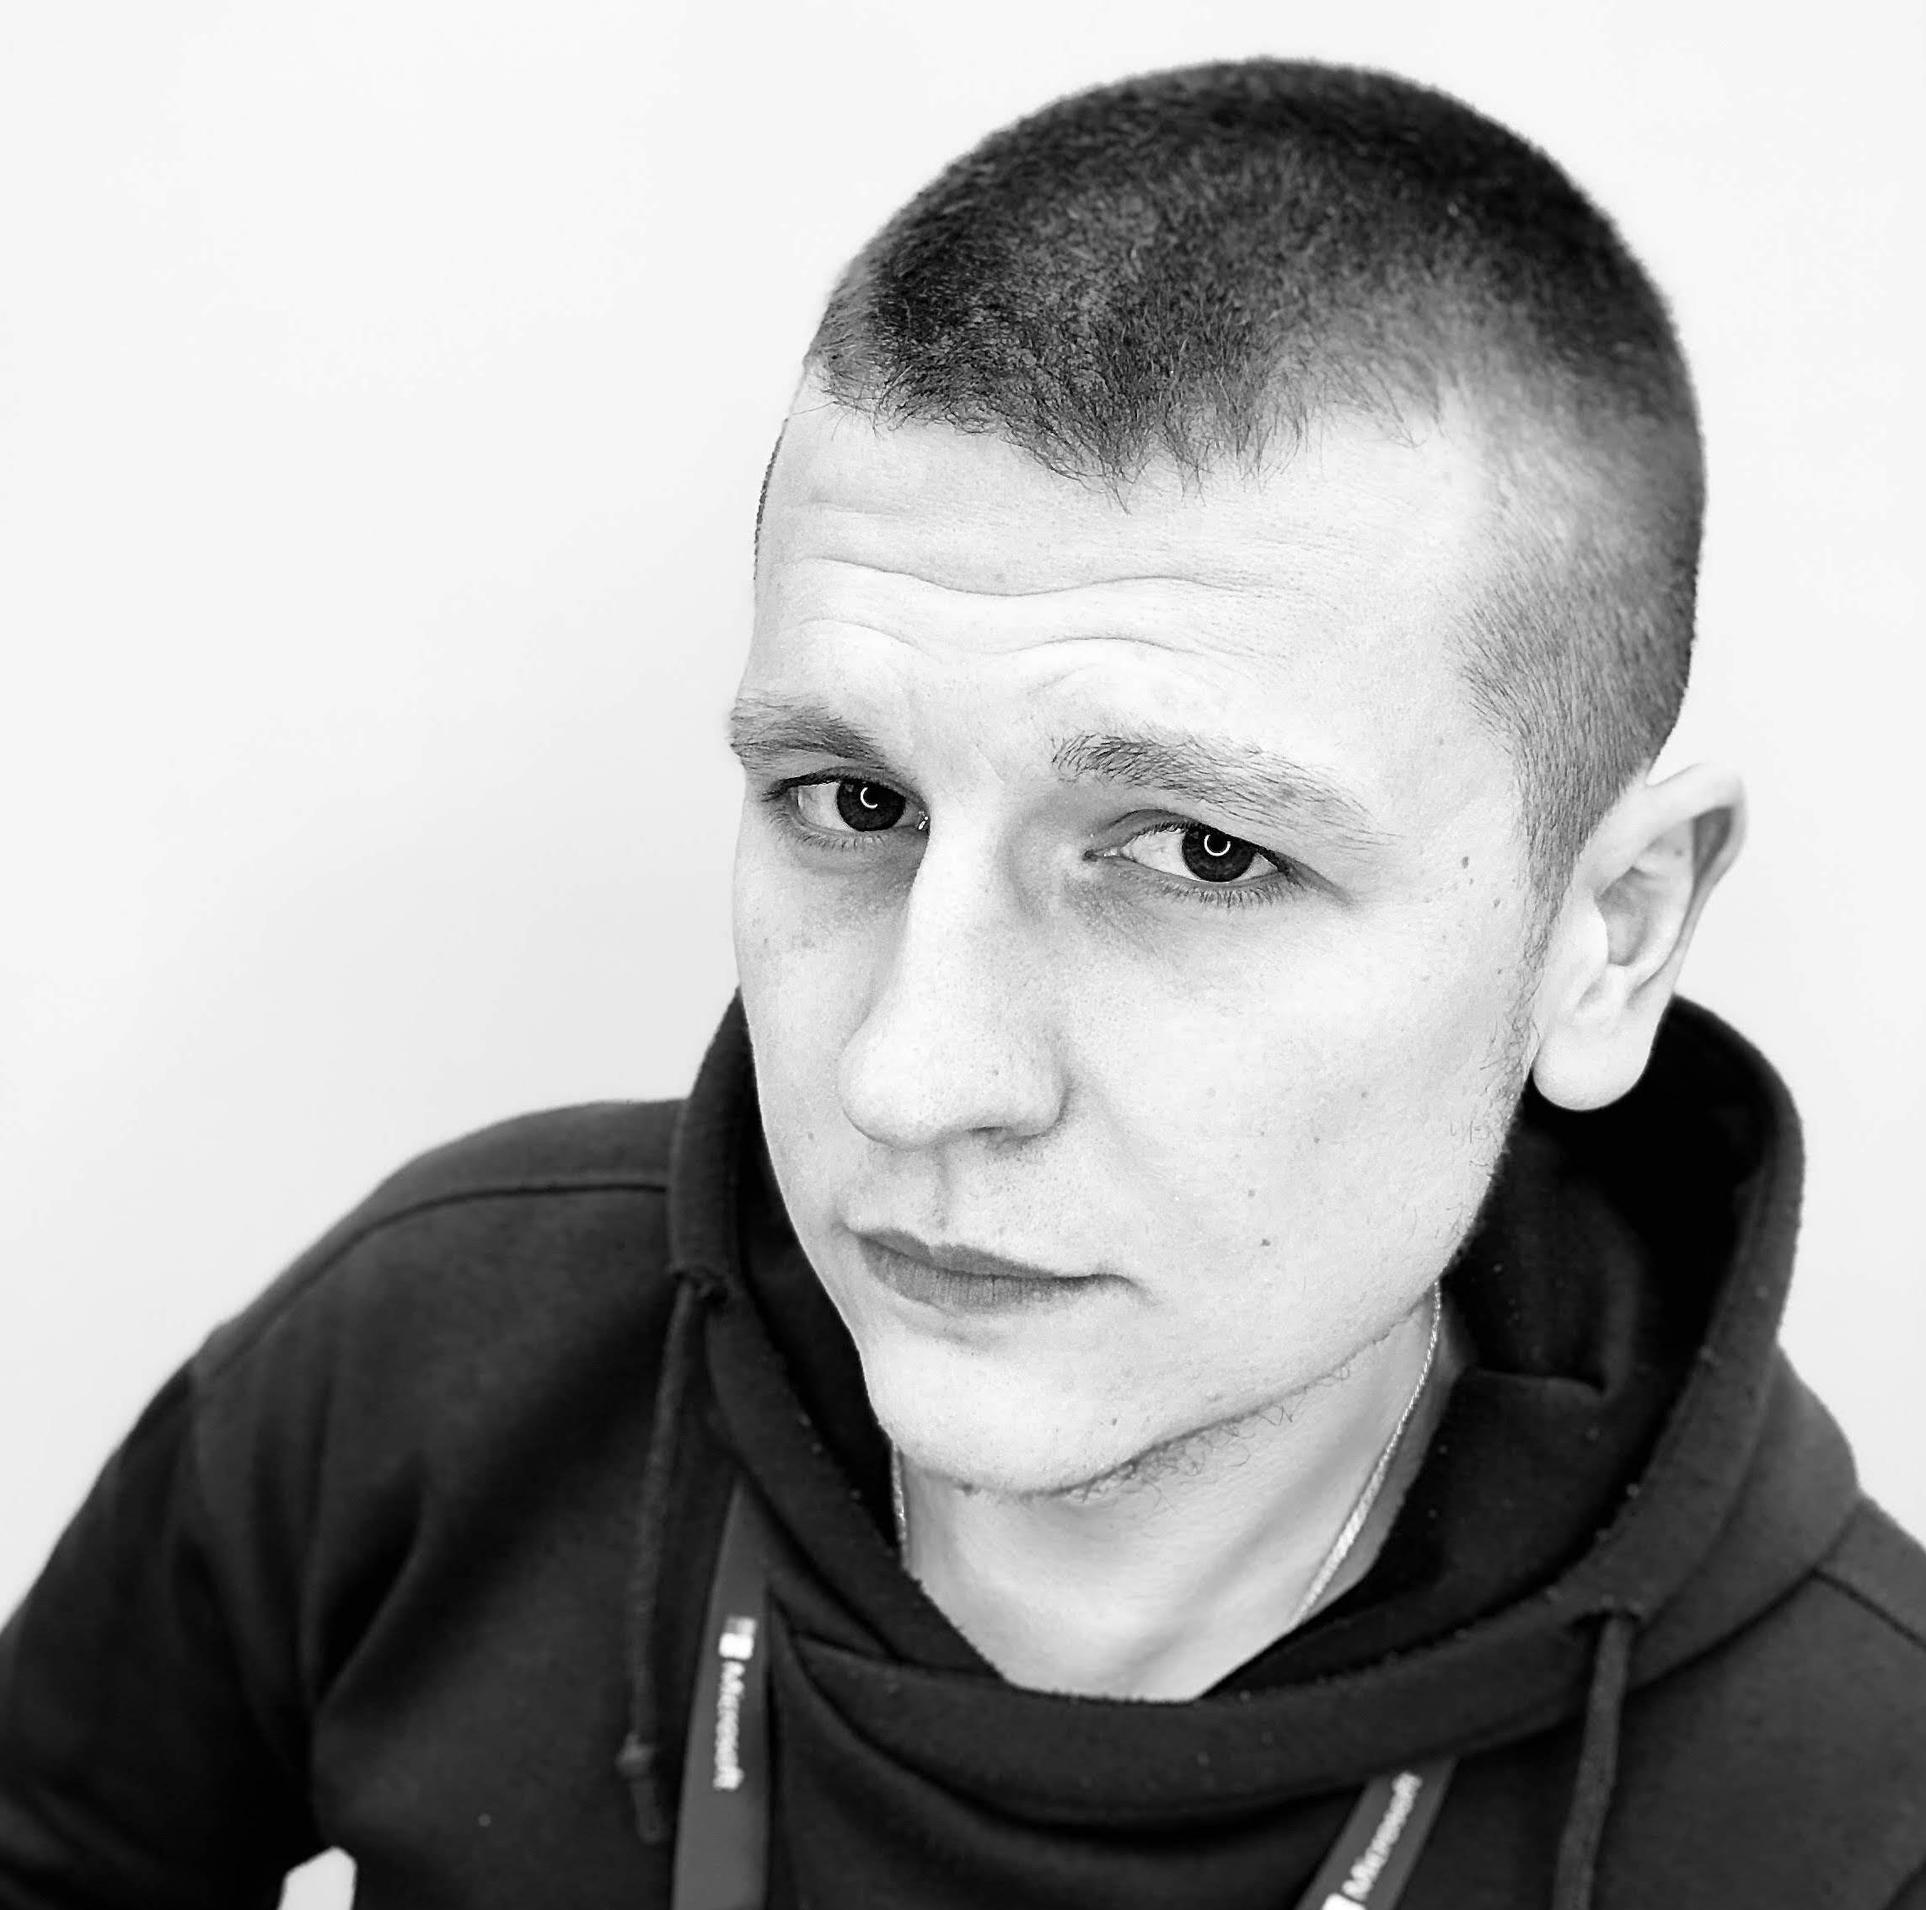
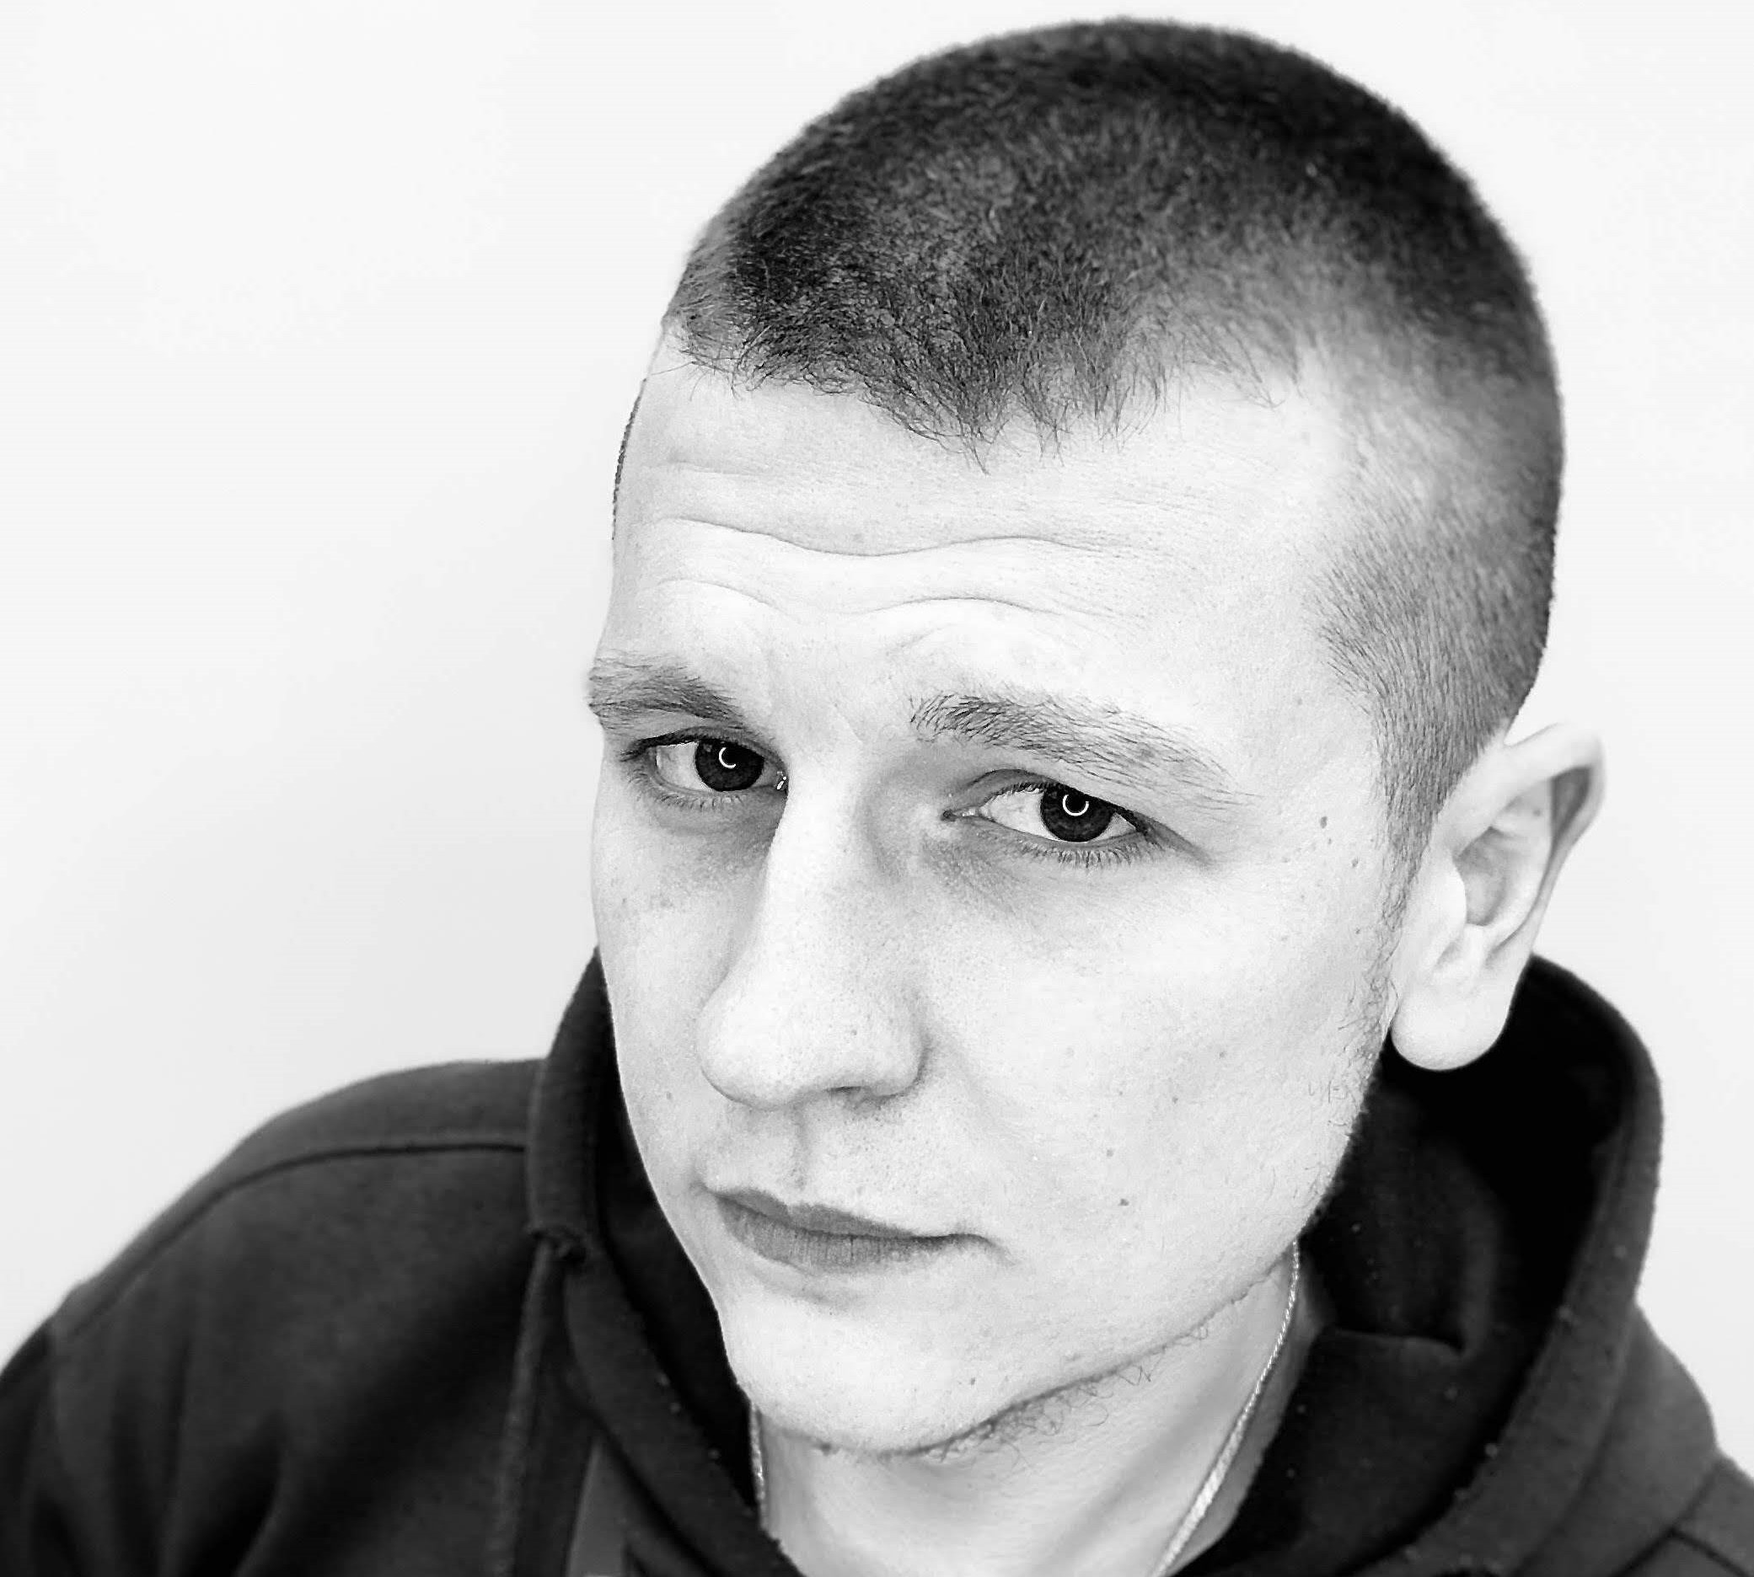
Final changes to styling and added photos to team app (#36)
* Made recipe card page mobile friendly, and changed View
Recipe to Back to Home

* Random recipe now mobile friendly

* Styled and properly linked 'Not Found'

* Added brief description of Carrate

* Created layout for meet the team

* Team page styling

* Minor changes to homepage

* Styling changes

* Resized team images

* Added serve to start script

* changed scripts back test

diff --git a/src/src-frontend/Pages/Team/Team.js b/src/src-frontend/Pages/Team/Team.js
@@ -4,7 +4,7 @@ import "./Team.css";
 import portfolio from "../../Images/portfolio.png";
 import github from "../../Images/github-icon.svg";
 import linkedin from "../../Images/linkedin-icon.svg";
-import lauren from "../../Images/Team/lauren.JPG";
+import lauren from "../../Images/Team/lauren.jpg";
 import lorraine from "../../Images/Team/lorraine.jpg";
 import max from "../../Images/Team/max.jpeg";
 import maxim from "../../Images/Team/maxim.jpg";

diff --git a/src/src-frontend/Pages/Team/Team.css b/src/src-frontend/Pages/Team/Team.css
@@ -28,6 +28,10 @@
   grid-area: contact;
 }
 
+.photo {
+  max-width: 500px;
+}
+
 .team-member {
   display: grid;
   grid-template-areas: "name" "photo" "contact";
